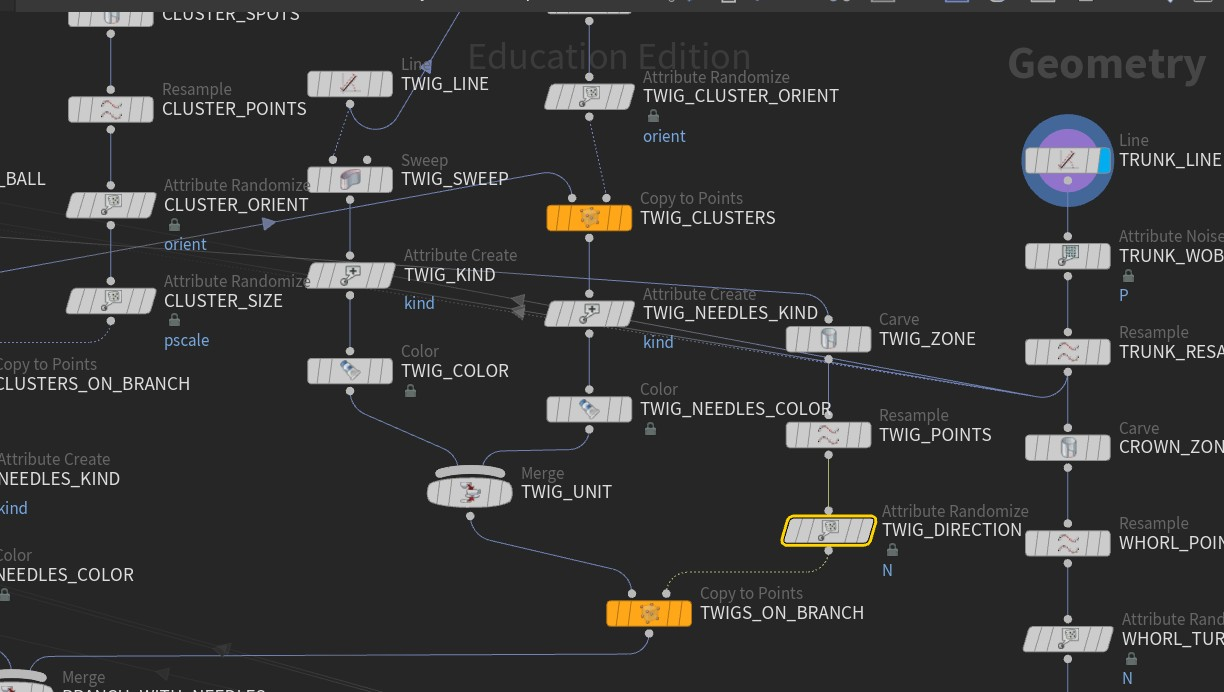
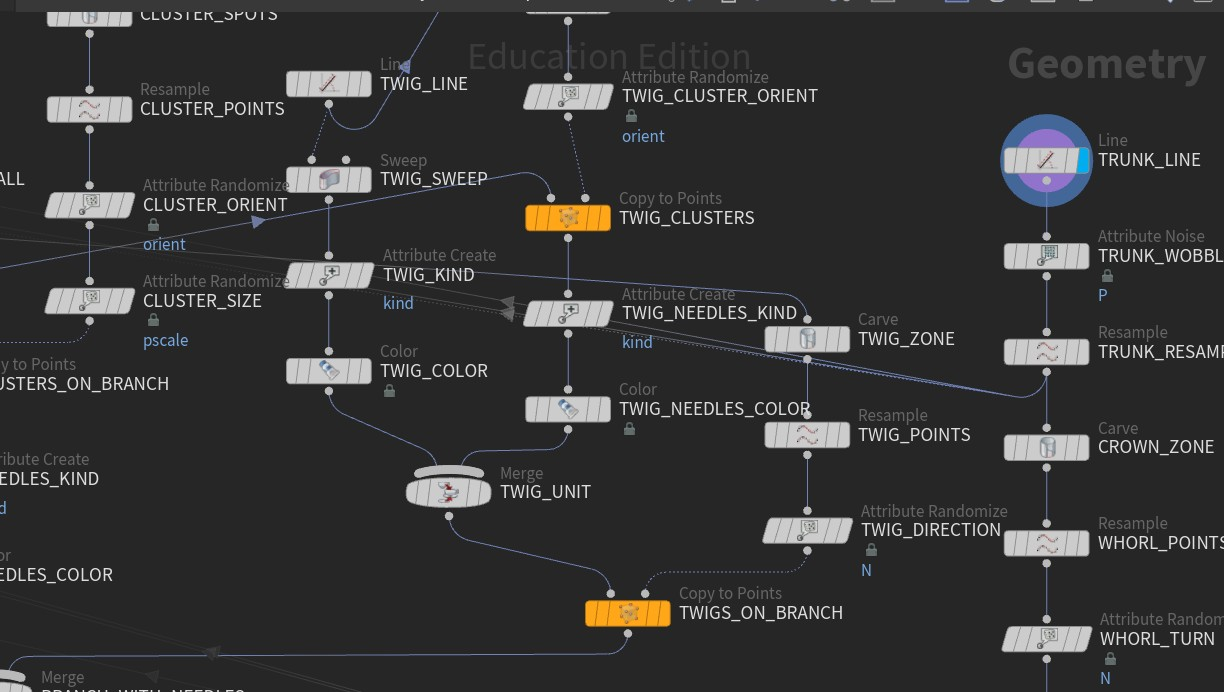
Entry 4: tidier network screenshots after laying out the nodes
Claude-Session: https://claude.ai/code/session_01Q1FERGjhjYyHWZMg4k3vWj

diff --git a/index.html b/index.html
@@ -1614,7 +1614,7 @@
         <div class="post-pair">
           <figure>
             <img src="blog/day05/c_twigs_net.jpg" alt="Twig nodes in PROC_TREES">
-            <figcaption>Shows the twig chain: line, sweep, needle clusters, then copied along each branch.</figcaption>
+            <figcaption>Shows the twig chain (laid out with L): line, sweep, needle clusters, then copied along each branch.</figcaption>
           </figure>
           <figure>
             <img src="blog/day05/c_twigs_parms.jpg" alt="TWIG_DIRECTION parameters">
